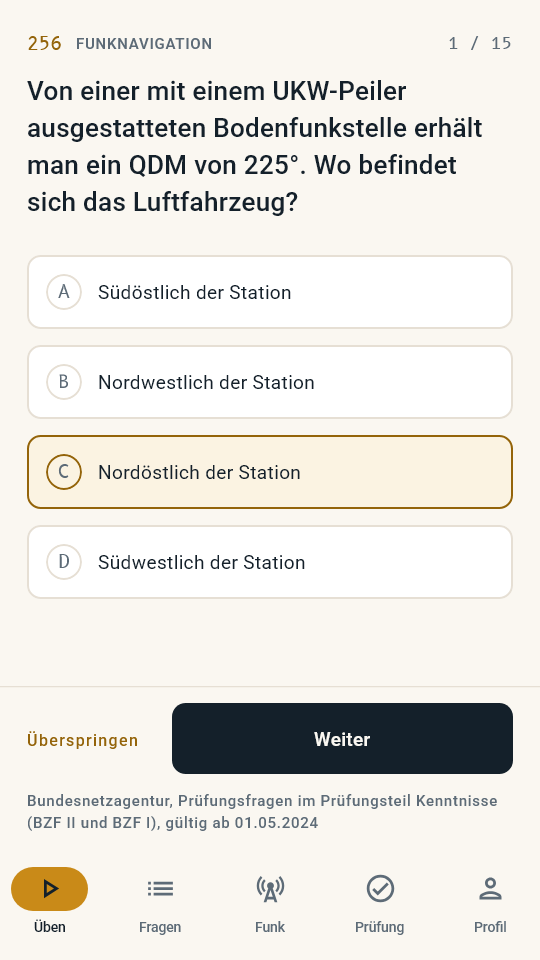
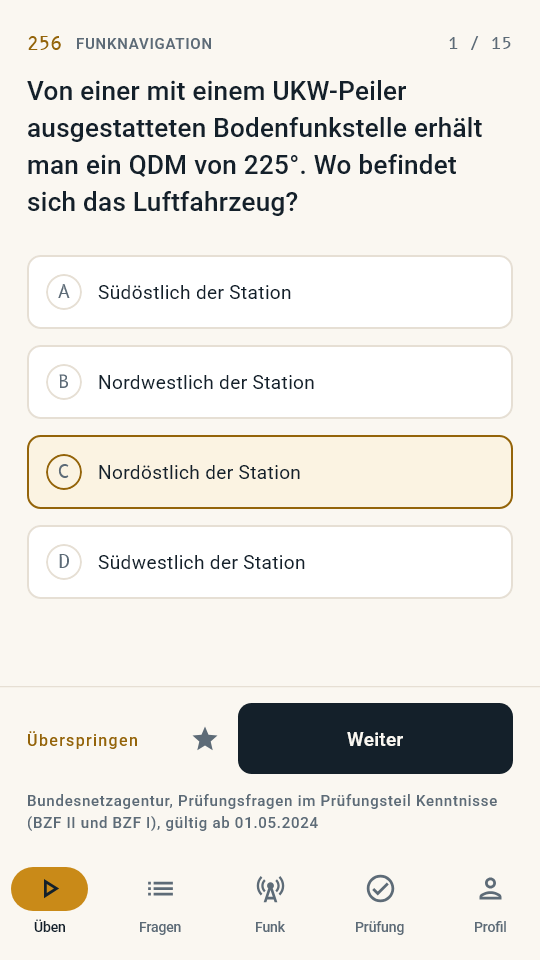
Squashed 'bzf-pruefung/' changes from 4c07951..3d2278b
3d2278b Die Website nachgezogen, und ein Vorschlag fuer den Ladentext zum Lesen
7ae84a4 Ladenbilder und Seitenbilder zeigen den Stern vor dem Antworten

git-subtree-dir: bzf-pruefung
git-subtree-split: 3d2278b389d7eabe4bff630345a6814b329ba690

Changed region(s): [[0.2963, 0.7188, 0.4444, 0.8125], [0.563, 0.75, 0.7407, 0.7812]]

diff --git a/index.html b/index.html
@@ -8,7 +8,7 @@
 <link rel="icon" type="image/png" sizes="512x512" href="/bzf-pruefung/bilder/symbol-512.png">
 <link rel="apple-touch-icon" sizes="180x180" href="/bzf-pruefung/bilder/symbol-180.png">
 <title>BZF-Prüfung App: alle 261 Fragen erklärt, BZF I und BZF II</title>
-<meta name="description" content="Lern-App für das Sprechfunkzeugnis BZF I und BZF II: alle 261 Prüfungsfragen der Bundesnetzagentur mit Erklärung, ein Funksimulator für den Flugfunk und 489 Sprechgruppen zum Nachschlagen. Android, kostenlos, ohne Konto und ohne Werbung.">
+<meta name="description" content="Lern-App für das Sprechfunkzeugnis BZF I und BZF II: alle 261 Prüfungsfragen der Bundesnetzagentur mit Erklärung, ein Funksimulator für den Flugfunk und 489 Sprechgruppen zum Nachschlagen. Android, kostenlos, offline, ohne Konto und ohne Werbung.">
 <meta name="robots" content="index,follow">
 <link rel="canonical" href="https://tobiaskummer.de/bzf-pruefung/">
 <meta property="og:type" content="website">
@@ -229,10 +229,10 @@
             </ul>
           </div>
         </div>
-        <h3 style="margin-top:3rem">Ohne Konto, ohne Werbung</h3>
-        <p>Kein Login, keine Werbung, kein Tracking. Dein Lernstand bleibt auf deinem Gerät. Stimme und Spracherkennung laufen komplett auf dem Handy, nichts wird aufgenommen oder hochgeladen. Lernen geht auch ohne Empfang. Nur der Kauf läuft über Google Play.</p>
+        <h3 style="margin-top:3rem">Offline, ohne Konto, ohne Werbung</h3>
+        <p>Kein Login, keine Werbung, kein Tracking. Deinen Lernstand bekommen wir nie zu sehen. Stimme und Spracherkennung laufen komplett auf dem Handy, nichts wird aufgenommen oder hochgeladen. Gelernt wird offline, auch ohne Empfang. Nur der Kauf läuft über Google Play.</p>
         <h3 style="margin-top:2rem">BZF I oder BZF II</h3>
-        <p>Das Funkzeugnis gibt es als BZF II auf Deutsch und als BZF I mit englischem Teil. Der Prüfungsteil Kenntnisse ist bei beiden derselbe, und genau der sind diese 261 Fragen. Wer per Zusatzprüfung vom BZF II aufrüstet, legt ihn nicht noch einmal ab und braucht diese App dafür nicht.</p>
+        <p>Das Funkzeugnis gibt es als BZF II (BZF 2) auf Deutsch und als BZF I (BZF 1) mit englischem Teil. Der Prüfungsteil Kenntnisse ist bei beiden derselbe, und genau der sind diese 261 Fragen. Wer per Zusatzprüfung vom BZF II aufrüstet, legt ihn nicht noch einmal ab und braucht diese App dafür nicht.</p>
         <div class="actions">
           <a class="play" href="https://play.google.com/store/apps/details?id=aero.bzf.app"><img class="badge" src="/bzf-pruefung/bilder/google-play-badge-de.png" width="646" height="250" alt="Jetzt bei Google Play"></a>
         </div>
